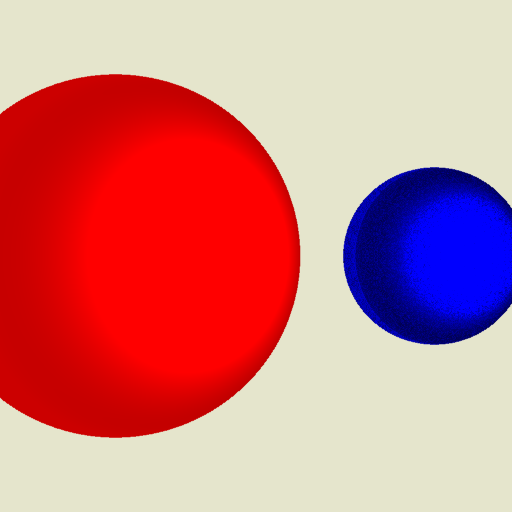
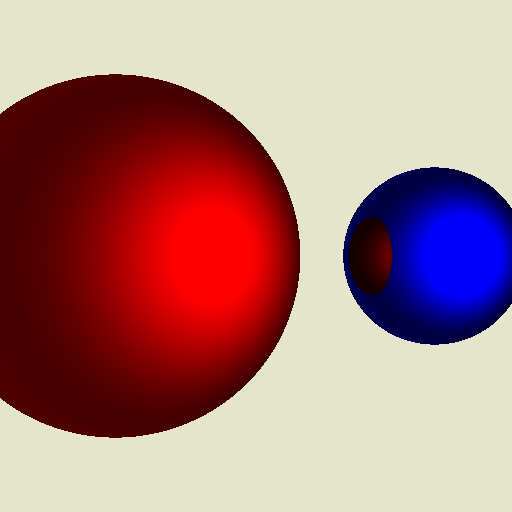
Fixed recursive raytracer

diff --git a/Ex.6/Primitives/ray.py b/Ex.6/Primitives/ray.py
@@ -43,11 +43,9 @@ class Ray:
         ## Default = Infinity
         self.length = length
 
-
     ## Function returning object values in string format.
     def __str__(self):
         return 'Origin: ' + str(self.origin) + ', Vector: ' + str(self.direction)
-
 
     ## Check if point is on ray, returns true if yes, false otherwise.
     def is_point_on_ray(self, point):
@@ -95,14 +93,12 @@ class Ray:
         # If all conditions are met, return true
         return True
 
-
     ## Sets new direction vector and converts it to normalized vector.
     def set_direction(self, new_direction):
         if new_direction == Vec3(0, 0, 0):
             raise ValueError('Direction vector cannot be (0, 0, 0)')
         self.direction = new_direction.normalized()
         self.target = self.origin + new_direction
-
 
     ## Sets new target and updates direction vector.
     def set_target(self, new_target):
@@ -111,21 +107,17 @@ class Ray:
         self.target = new_target
         self.direction = (self.target - self.origin).normalized()
 
-
     ## Plane.get_intersection(ray) wrapper.
     def get_plane_intersection(self, plane):
         return plane.get_intersection(self)
-
 
     ## Sphere.get_intersection(ray) wrapper.
     def get_sphere_intersection(self, sphere):
         return sphere.get_intersection(self)
 
-
     ## Sphere.get_ray_intersections(ray) wrapper.
     def get_sphere_intersections(self, sphere):
         return sphere.get_ray_intersections(self)
-
 
     ## Iterates through list of primitives and returns the closest hit, raytracing step 2
     def get_pixel_hit(self, primitives):
@@ -135,17 +127,16 @@ class Ray:
             if hits[0] is None:
                 continue
             for hit in hits:
-                if closest_hit is None or hit.distance < closest_hit.distance:
+                if (closest_hit is None or hit.distance < closest_hit.distance) and (hit.distance > .05 or pr is not hit.primitive):
                     closest_hit = hit
                 # elif hit.distance < closest_hit.distance and hit.primitive != closest_hit.primitive:
                 #     closest_hit = hit
 
         return closest_hit
 
-
+    ## Iterates through list of primitives and lights and calculates pixel color
     def get_pixel_color(self, primitives, lights, recursion_number=0):
         recursion_limit = 3
-        recursive_color = None
 
         hit = self.get_pixel_hit(primitives)
 
@@ -157,7 +148,7 @@ class Ray:
         g = lights[0][0] * lights[0][1][1]
         b = lights[0][0] * lights[0][1][2]
 
-        # Iterate through lights, raytracing step 3
+        # Iterate through lights
         for light in lights[1:]:
             distance = hit.point.distance(light.position)
             ray = Ray(origin=hit.point, target=light.position, length=distance + 0.001)
@@ -189,20 +180,16 @@ class Ray:
         # Recursive raytracing step 3a
         if hit.primitive.material.material_type is MaterialType.Reflective and recursion_number < recursion_limit:
             normal = hit.primitive.get_normal(hit.point).normalized()
-            reflection = ray.direction - 2 * (ray.direction * normal) * normal
+            reflection = self.direction - 2 * (self.direction * normal) * normal
             recursive_ray = Ray(origin=hit.point, direction=reflection)
 
             recursion_number += 1
-
             recursive_color = recursive_ray.get_pixel_color(primitives, lights, recursion_number)
-            # return [recursive_color[i] * [r, g, b][i] for i in range(3)]
-            # return recursive_color
 
             if recursive_color is not None:
                 return [recursive_color[i] * [r, g, b][i] for i in range(3)]
 
         return [hit.primitive.get_texture_color(hit.point)[i] * [r, g, b][i] for i in range(3)]
-
 
     def check_intersection(self, primitives):
         for p in primitives:

diff --git a/Ex.6/main.py b/Ex.6/main.py
@@ -15,7 +15,7 @@ from texture import *
 p_cam = PerspectiveCamera(position=Vec3(0, 0, 0), view_direction=Vec3(0, 0, 1), width=512, height=512, fov=40)
 o_cam = OrthogonalCamera(position=Vec3(0, 0, 0), view_direction=Vec3(0, 0, 1), width=512, height=512, pixel_size=(0.01, 0.01))
 
-texture = Texture('/home/werdon4/Desktop/FGK/Ex.6/sample_texture.png')
+texture = Texture('sample_texture.png')
 material1 = Material(material_type=MaterialType.Dull)
 material2 = Material(material_type=MaterialType.Reflective)
 
@@ -36,11 +36,11 @@ primitives1 = [
 
 # First element is ambient light: [intensity, [color]]
 lights = [
-    [0.8, [1, 1, 1]],
+    [0.3, [1, 1, 1]],
     PointLightSource(position=Vec3(3, 0, 3), color=[1, 1, 1], intensity=10)
 ]
 
-p_cam.render_scene(primitives1, lights, antialiasing=True)
+p_cam.render_scene(primitives1, lights, antialiasing=False)
 # o_cam.render_scene(primitives3)
 
 print('KONIEC')
